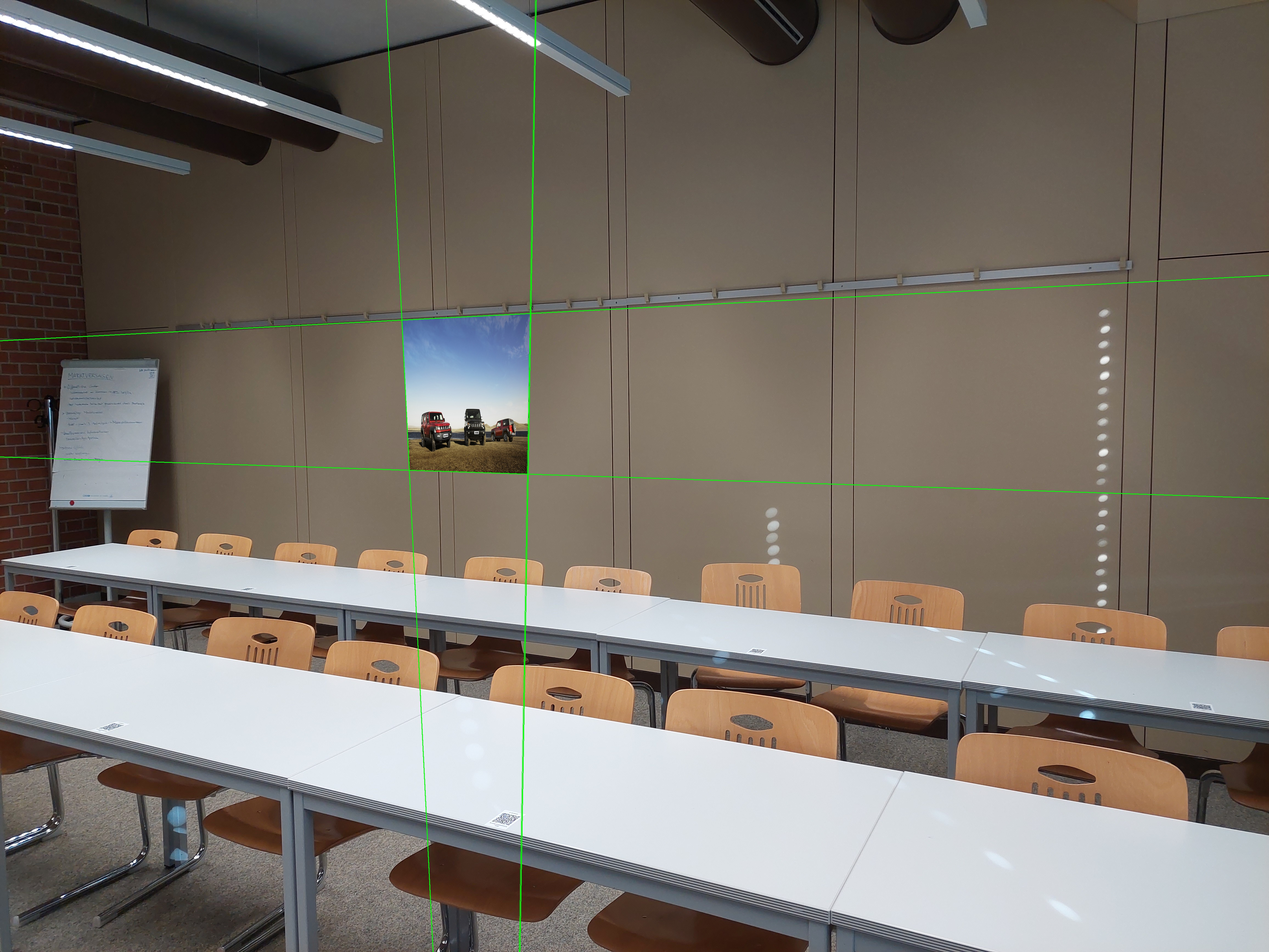
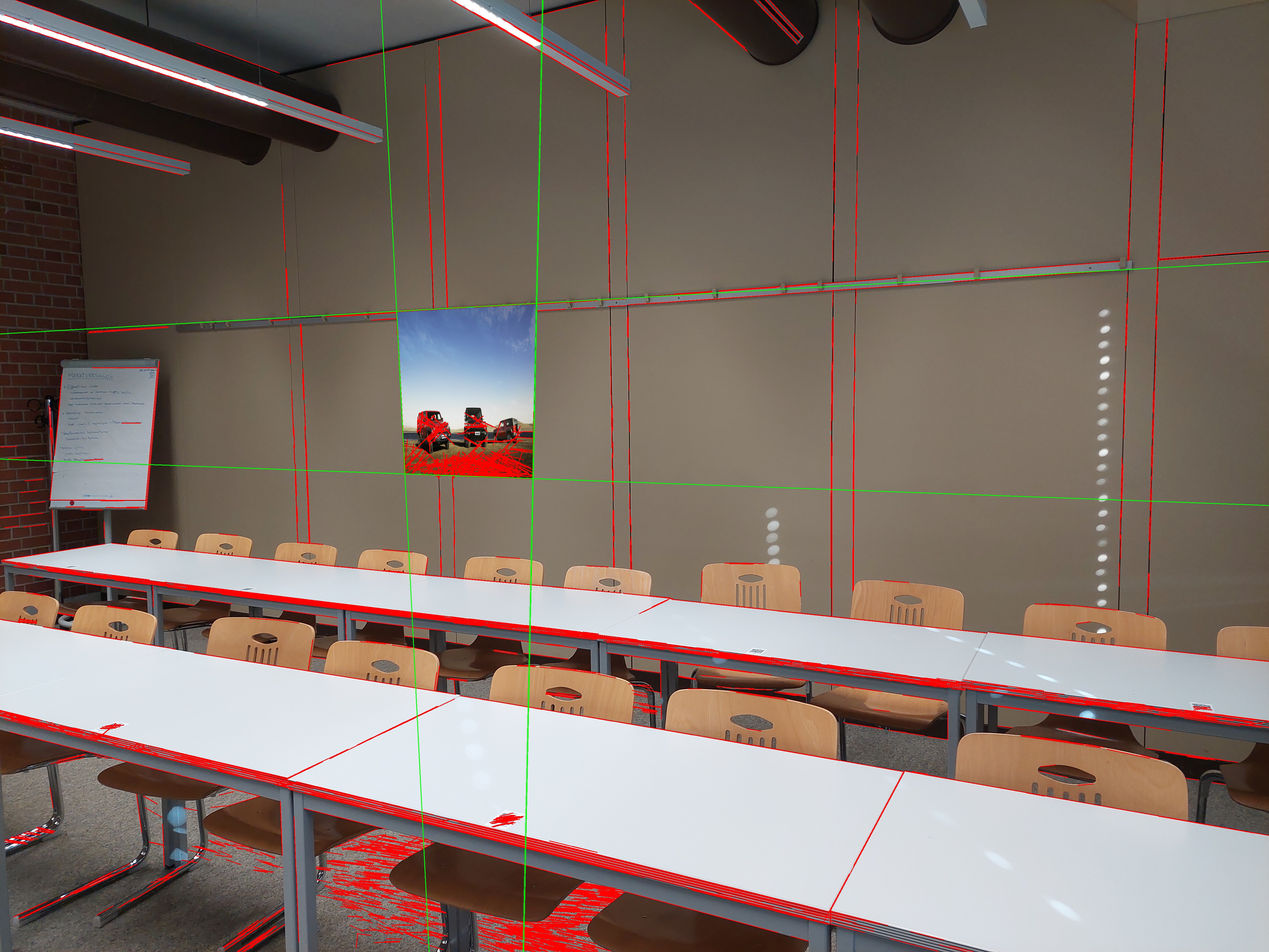
evaluatio

diff --git a/doc/CV_Task1.tex b/doc/CV_Task1.tex
@@ -23,7 +23,7 @@
     \hfill
     \begin{minipage}[t]{0.45\textwidth} % Rechte Spalte
         \centering
-        Tim Schweitzer \\ % Name
+        Tim Schweitzer 29844429 \\ % Name
         \texttt{tim.schweitzer@hs-weingarten.de} % E-Mail
     \end{minipage}
 }
@@ -61,53 +61,51 @@ Diese Bildaugmentierung wird auf einen vorgegebenen Datensatz angewendet, wobei 
 Eine zentrale Herausforderung in allen Disziplinen der Informatik, die mit Bilddaten arbeiten, besteht in der Interpretation von Räumlichkeiten auf Basis einzelner Perspektiven. Ein vielversprechender Ansatz zur Erkennung von Orientierung und Ausrichtung ist die Nutzung von Markern.
 \\
 Im Rahmen dieser Arbeit wird der ArUco-Marker eingesetzt. Dabei handelt es sich um speziell entwickelte Marker, die aus einem quadratischen schwarz-weißen Muster bestehen und eine eindeutige Identifizierung sowie die Berechnung von Position und Ausrichtung im Raum ermöglichen.
-\subsection{Fluchtpunkt}
 
-\todo{ChatGPT geschrieben!}
-\todo{Fehlende Quelle!}
-Ein Fluchtpunkt ist ein zentrales Konzept der Perspektivdarstellung in der Bildverarbeitung und Geometrie. Er bezeichnet den Punkt, an dem parallele Linien im dreidimensionalen Raum bei der Projektion in ein zweidimensionales Bild konvergieren, sofern sie nicht parallel zur Bildebene verlaufen. Der Fluchtpunkt liegt in der Regel auf der Horizontlinie und dient dazu, Tiefeninformationen und räumliche Beziehungen innerhalb eines Bildes abzuleiten.
-\\
-In der Computer Vision wird der Fluchtpunkt häufig genutzt, um Kamerapositionen, -orientierungen und Perspektivverzerrungen zu analysieren. Diese Informationen sind essenziell, um realistische Projektionen, wie beispielsweise die Platzierung von Objekten in einer Szene, korrekt zu berechnen.
-\section{Methodik}
-Um ein Poster mithilfe von Aruco-Markern an einer Wand zu platzieren, ist es zunächst notwendig, das Bild zu laden. Beispielhaft soll hierfür das Bild aus Abbildung \ref{fig:example-base} verwendet werden.
+\section{Image Transformation Process}
+The image transformation process begins by loading the input image \ref{fig:example-base}, which contains ArUco markers, as well as the poster image. 
 \begin{figure}[h!]
     \centering
     \includegraphics[width=0.9\columnwidth]{img/img_base_113340.jpg} % Beispielbild
     \caption{Fernaufame des Arucumarkers aus dem Vorgegbeenen Datensatz.}
     \label{fig:example-base}
 \end{figure}
-Für die Platzierung eines Objekts im Bild muss im ersten Schritt der Fluchtpunkt ermittelt werden, damit die korrekte Transformation auf das Objekt angewendet werden kann. Dazu wird der im Bild enthaltene Aruco-Marker genutzt. Hierfür verwenden wir die Funktion detectMarkers des aruco-Moduls von OpenCV. Dieses Modul liefert die Eckpunkte des Aruco-Markers zurück.
 \\
-Da der Aruco-Marker per Definition quadratisch ist, kann mithilfe der detektierten Eckpunkte der Fluchtpunkt berechnet werden. Dies wird durch die Funktion perspectiveTransform der OpenCV-Bibliothek ermöglicht. Nachdem die notwendige Transformation berechnet wurde, um das Poster im Raum zu platzieren, kann das Poster geladen und transformiert werden, ebenfalls mit der Funktion perspectiveTransform von OpenCV. Anschließend kann das transformierte Poster in das gewünschte Bild eingefügt werden.
+The script then scales and adjusts the poster dimensions to fit within the area defined by the detected ArUco marker, ensuring the poster aligns properly with the marker's size and orientation. To achieve this, the script calculates the corners of the scaled poster and determines their correct positions relative to the marker's location. 
+\\
+Next, the ArUco markers are detected within the image using OpenCV's aruco.detectMarkers function, which identifies the marker's corners. A perspective transformation matrix is calculated based on the positions of the poster corners and the detected marker corners. This matrix is then used to warp the poster image so that it aligns precisely with the detected marker area.
+\\
+To integrate the transformed poster into the original image, a mask is created, which isolates the transformed poster region. The mask is then inverted so that only the region outside the poster area is kept, ensuring that the poster seamlessly blends with the background. Finally, the mask is applied to the image, and the transformed poster is combined with the original image using bitwise operations, resulting in the final image with the poster placed correctly within the marker-defined region.
 
-\section{Ergebnisse}
+\section{Evaluation and Validation}
 
-Mithilfe des entwickelten Codes ist es nun möglich, durch eine Schleife auf alle gegebenen Bilder ein passendes transformiertes Poster zu platzieren. Um die Genauigkeit der Transformation ermitteln zu können, wird der jeweils ermittelte Fluchtpunkt in die Bilder eingezeichnet. Dies geschieht durch das Einfügen von Linien, die den Fluchtpunkt hervorheben.
+Once the image transformation is complete, the script proceeds to evaluate the alignment of the poster placement.
 \begin{figure}[h!]
     \centering
     \includegraphics[width=0.9\columnwidth]{img/img_result_113340.jpg} % Beispielbild
     \caption{Fernaufame des Arucumarkers aus dem Vorgegbeenen Datensatz mit Poster.}
     \label{fig:example-result}
 \end{figure}
-
-Das transformierte Poster sowie die zugehörigen Fluchtpunktlinien in Grün sind in Abbildung \ref{fig:example-result} dargestellt. Eine schnelle Analyse der Ergebnisse ist in diesem Fall aufgrund der Beschaffenheit der Wand möglich. Der Vergleich der oberen horizontalen grünen Linie mit der Metallstange darüber zeigt, dass die angewendete Transformation korrekt auf die Verzerrung des Bildes angepasst wurde.
+ \\
+ The first step in the evaluation is detecting the edges of the image using the Canny edge detection method. This process highlights the boundaries of the poster and the surrounding areas, providing a clear view of the poster's edges.
+Following edge detection, the script employs the Hough Line Transform to extract the prominent lines from the edge-detected image. This method identifies and highlights the linear features within the image, including the edges of the poster. By comparing the detected lines with the expected positions of the poster's edges, the script can assess whether the poster has been placed accurately.
 \\
-Ähnliches gilt für die vertikalen Fluchtpunktlinien und die Lücken zwischen den Wandpanelen. Daraus lässt sich ableiten, dass der entwickelte Code grundsätzlich auf Bilddateien mit Aruco-Markern anwendbar ist.
+Finally, the evaluation results are visualized by overlaying the detected lines and edges on the original image. This allows for easy manual inspection of the poster’s placement, providing immediate feedback on the transformation’s accuracy. The combination of edge detection and line extraction ensures that any misalignment or distortion in the poster placement is clearly visible for quality assurance.
 \\
-Bei der Analyse weiterer Bilder zeigt sich jedoch, dass die Erkennung des Aruco-Markers nicht in jeder Perspektive zuverlässig funktioniert. Ein Beispiel hierfür ist in Abbildung \ref{fig:bad-example-result} zu sehen. Beim Vergleich der horizontalen Fluchtpunktlinien mit der Metallstange wird sichtbar, dass die Fluchtpunktlinien mit zunehmender Entfernung immer weiter von der Stange abweichen und schließlich in einem Punkt enden.\begin{figure}[h!]
+Bei der Analyse weiterer Bilder zeigt sich jedoch, dass die Erkennung des Aruco-Markers nicht in jeder Perspektive zuverlässig funktioniert. Ein Beispiel hierfür ist in Abbildung \ref{fig:bad-example-result} zu sehen. Beim Vergleich der horizontalen Fluchtpunktlinien des Posters(Grün) mit der Metallstange(Rot) wird sichtbar, dass die Fluchtpunktlinien mit zunehmender Entfernung immer weiter von der Stange abweichen und schließlich abweichen.\begin{figure}[h!]
     \centering
     \includegraphics[width=0.9\columnwidth]{img/img_result_bad_113437.jpg} % Beispielbild
     \caption{Beispiel für eine Perspektive bei welcher der Fluchtpunkt schlecht erkannt wurde.}
     \label{fig:bad-example-result}
 \end{figure}
 
-section{Fazit und Ausblick}
+\section{Fazit und Ausblick}
 
 Im Rahmen dieses Projekts wurde eine Software zur Platzierung von Postern in einem Bild entwickelt. Dafür wurden hauptsächlich der Aruco-Marker und die Bibliothek OpenCV verwendet.
 \\
-Die Ergebnisse der Posterplatzierung sind grundsätzlich solide und positionieren das Poster in der richtigen Größe im Raum. Die Abweichung zwischen der berechneten und der tatsächlichen Verzerrung ist in den analysierten Bildern so geringfügig, dass die Fehler nicht störend wirken.
+Die Ergebnisse der Posterplatzierung sind grundsätzlich solide und positionieren das Poster in der richtigen Größe im Raum. Die Abweichung zwischen der berechneten und der tatsächlichen Verzerrung ist in den analysierten Bildern so geringfügig, dass die Fehler nicht störend wirken. Fehler sind sehr viel stärker, wenn der Arcuo Marker eine geringere Auflösung hat und deswegen die Ecken nicht genau erkannt werden.
 \\
-Eine Verbesserung der Fluchtpunktberechnung war im zeitlichen Umfang dieser Arbeit nicht möglich und könnte im Rahmen einer umfangreicheren wissenschaftlichen Untersuchung weiter optimiert werden.
+Eine Verbesserung der Marker Erkennung war im Umfang dieser Arbeit nicht möglich und könnte im Rahmen einer umfangreicheren wissenschaftlichen Untersuchung weiter optimiert werden.
 
 %\begin{thebibliography}{99}
 %\bibitem{ref1} Autor, Titel, Quelle, Jahr.
@@ -120,7 +118,6 @@ Eine Verbesserung der Fluchtpunktberechnung war im zeitlichen Umfang dieser Arbe
     \todo{Quelle nochmal prüfen. Prof ist wirklich streng!}
     S. Garrido-Jurado, R. Muñoz-Salinas, F. J. Madrid-Cuevas, M. J. Marín-Jiménez. 
     \textit{Automatic generation and detection of highly reliable fiducial markers under occlusion}. Pattern Recognition, vol. 11, no 6, 2021.
-
 \end{thebibliography}
 \todo{Hinzufügen der anderen Bilder}
 

diff --git a/CV_Task1.py b/CV_Task1.py
@@ -9,9 +9,9 @@ import os
 script_dir = os.path.dirname(__file__)
 
 # Der relative Pfad zum Bild im 'img'-Ordner
-image__folder_path = os.path.join(script_dir, 'newImg')
-output_folder_path = os.path.join(script_dir, 'newOutput')
-evaluation_folder_path = os.path.join(script_dir, 'newEvaluation')
+image__folder_path = os.path.join(script_dir, 'Img')
+output_folder_path = os.path.join(script_dir, 'Output')
+evaluation_folder_path = os.path.join(script_dir, 'Evaluation')
 img_list = [datei for datei in os.listdir(image__folder_path) if datei.endswith('.jpg')]
 poster_path = os.path.join(script_dir, 'poster.jpg')
 
@@ -24,7 +24,6 @@ def slope(p1,p2):
         return((y2-y1)/(x2-x1))
     else:
         return 'NA'
-
 ### main function to draw lines between two points
 def drawLine(image,p1,p2):
     x1,y1=p1
@@ -56,6 +55,32 @@ def show_image(image, Function):
     cv2.namedWindow(Function, cv2.WINDOW_KEEPRATIO)
     cv2.imshow(Function, image)
 
+def extract_lines_from_edges(edges):
+    """Extracts lines from the detected edges using the Hough Transform.
+
+    Args:
+        edges: The image with detected edges.
+
+    Returns:
+        A list of lines, where each line is a tuple of four numbers representing the coordinates of the two endpoints.
+    """
+
+    lines = cv2.HoughLinesP(edges, 1, np.pi/180, 100, minLineLength=50, maxLineGap=10,)
+    return lines
+
+def detect_edges(image):
+    """Detects edges in an image using Canny edge detection.
+
+    Args:
+        image_path: The path to the image file.
+
+    Returns:
+        The image with detected edges.
+    """
+    gray = cv2.cvtColor(image, cv2.COLOR_BGR2GRAY)
+    edges = cv2.Canny(gray, 100, 200)
+    return edges
+
 for img in img_list:
     try:
         image_path = os.path.join(image__folder_path,img)
@@ -65,8 +90,8 @@ for img in img_list:
         poster = cv2.imread(poster_path)
 
         #define constants 
-        poster_scale=6 #define the size of the Poster in the final Image (1 is the size of the marker)
-        y_offset = -80
+        poster_scale=13 #define the size of the Poster in the final Image (1 is the size of the marker)
+        y_offset = 130
 
         poster_height, poster_width = poster.shape[:2]
 
@@ -115,6 +140,13 @@ for img in img_list:
 
         cv2.imwrite(os.path.join(output_folder_path,img),final_image)
 
+        edges = detect_edges(final_image)
+        edge_lines = extract_lines_from_edges(edges)
+
+        for line in edge_lines:
+            x1, y1, x2, y2 = line[0]
+            cv2.line(final_image, (x1, y1), (x2, y2), (0, 0, 255), 2)
+
         
         # final_image = cv2.polylines(final_image, [pts], isClosed=True, color=(255, 255, 0), thickness=outline_thickness)
         final_image = drawLine(final_image, pts[0],pts[1])
@@ -122,8 +154,10 @@ for img in img_list:
         final_image = drawLine(final_image, pts[1],pts[2])
         final_image = drawLine(final_image, pts[2],pts[3])
 
+
+
         #show_image(final_image, "final image")
-        #cv2.imwrite(os.path.join(evaluation_folder_path,img),final_image)
+        cv2.imwrite(os.path.join(evaluation_folder_path,img),final_image)
         cv2.waitKey(0)
         cv2.destroyAllWindows()
     except Exception as e:

diff --git a/Computer_Vision_Task 1_Part_1.py b/Computer_Vision_Task 1_Part_1.py
@@ -1,11 +1,16 @@
 import cv2
 import numpy as np
 import cv2.aruco as aruco
+import os
 
+script_dir = os.path.dirname(__file__)
 # Load the image containing the ArUco markers
-image = cv2.imread(r'd:\VisualStudio\Computer Vision Task 1\20221115_113319.jpg')
+image__folder_path = os.path.join(script_dir, 'Img')
+
+image = cv2.imread(image__folder_path)
 # Load the poster image
-poster = cv2.imread(r'd:\VisualStudio\Computer Vision Task 1\poster.jpg')
+poster_path = os.path.join(script_dir, 'poster.jpg')
+poster = cv2.imread(poster_path)
 
 #define constants 
 poster_scale=8 #define the size of the Poster in the final Image (1 is the size of the marker)
